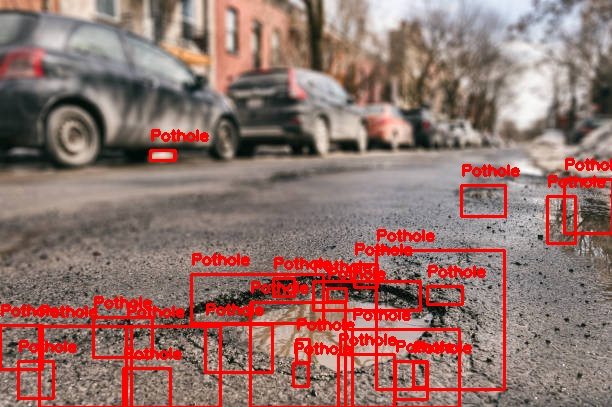
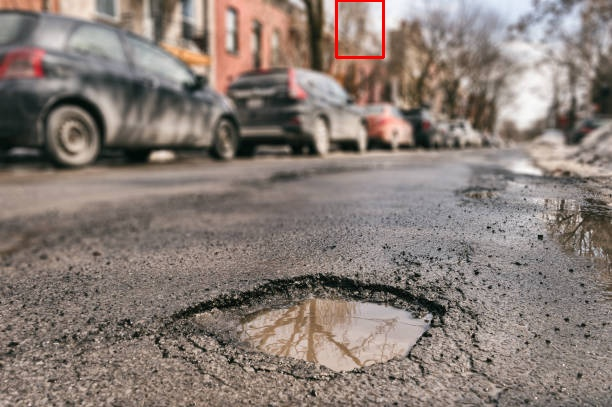
webpage error rectification

diff --git a/app/templates/result.html b/app/templates/result.html
@@ -3,21 +3,43 @@
 <head>
     <title>Results</title>
     <style>
-        body { font-family: Arial; text-align: center; margin-top: 30px; }
-        img { border: 1px solid #ddd; margin: 10px; max-width: 500px; }
-        a { display: inline-block; margin-top: 20px; color: #4CAF50; }
+        body { font-family: Arial; padding: 20px; }
+        .container { display: flex; gap: 20px; }
+        .image-box { flex: 1; border: 1px solid #ddd; padding: 10px; }
+        img { max-width: 100%; height: auto; }
+        .btn { display: inline-block; margin-top: 20px; padding: 10px 20px; 
+               background: #4CAF50; color: white; text-decoration: none; }
+        .count { 
+            background: #f0f0f0;
+            padding: 10px;
+            margin: 10px 0;
+            border-radius: 5px;
+            font-weight: bold;
+        }
+        .error { color: red; }
     </style>
 </head>
 <body>
-    <h1>Detection Results</h1>
-    <div>
-        <h3>Original Image:</h3>
-        <img src="{{ url_for('static', filename=original_img.split('static/')[1]) }}">
+    <h1>Pothole Detection Results</h1>
+    
+    <div class="count">
+        Detected count pothole(s)
     </div>
-    <div>
-        <h3>Processed Image:</h3>
-        <img src="{{ url_for('static', filename=result_img.split('static/')[1]) }}">
+    
+    <div class="container">
+        <div class="image-box">
+            <h3>Original Image</h3>
+            
+                <img src="C:\Users\anike\AI-Pothole-Detector\app\static\uploads\istockphoto-1268318029-612x612.jpg" alt="Original Image">
+                 
+        </div>
+        <div class="image-box">
+            <h3>Processed Image</h3>
+            
+                <img src="C:\Users\anike\AI-Pothole-Detector\app\static\results\istockphoto-1268318029-612x612.jpg" alt="Processed Image">
+                 
+        </div>
     </div>
-    <a href="/">← Upload Another Image</a>
+    <a href="/" class="btn">Try Another Image</a>
 </body>
 </html>

diff --git a/app/templates/upload.html b/app/templates/upload.html
@@ -1,18 +1,34 @@
 <!DOCTYPE html>
 <html>
 <head>
-    <title>Pothole Detector</title>
+    <title>Upload Image</title>
     <style>
-        body { font-family: Arial; text-align: center; margin-top: 50px; }
-        button { padding: 10px 20px; background: #4CAF50; color: white; border: none; cursor: pointer; }
+        body { font-family: Arial; padding: 40px; max-width: 600px; margin: 0 auto; text-align: center; }
+        h1 { color: #333; margin-bottom: 30px; }
+        .upload-box { border: 2px dashed #ccc; padding: 30px; border-radius: 8px; margin: 20px 0; }
+        .btn { display: inline-block; padding: 12px 25px; background: #4CAF50; color: white; 
+               text-decoration: none; border-radius: 4px; font-weight: bold; cursor: pointer; }
+        #fileInput { display: none; }
+        #fileName { margin: 10px 0; font-style: italic; }
     </style>
 </head>
 <body>
-    <h1>Upload Image to Detect Potholes</h1>
-    <form method="post" enctype="multipart/form-data">
-        <input type="file" name="image" accept="image/*" required>
-        <br><br>
-        <button type="submit">Detect Potholes</button>
+    <h1>Upload Image for Pothole Detection</h1>
+    
+    <form method="post" enctype="multipart/form-data" id="uploadForm">
+        <div class="upload-box" onclick="document.getElementById('fileInput').click()">
+            <p>Click to select an image</p>
+            <p id="fileName">No file selected</p>
+            <input type="file" id="fileInput" name="image" accept="image/*" required>
+        </div>
+        <button type="submit" class="btn">Detect Potholes</button>
     </form>
+
+    <script>
+        document.getElementById('fileInput').addEventListener('change', function(e) {
+            const fileName = e.target.files[0] ? e.target.files[0].name : 'No file selected';
+            document.getElementById('fileName').textContent = fileName;
+        });
+    </script>
 </body>
 </html>

diff --git a/app/flask_app.py b/app/flask_app.py
@@ -8,14 +8,12 @@ from flask import send_from_directory
 
 app = Flask(__name__)
 
-# Configuration
 BASE_DIR = Path(__file__).parent
 app.config.update({
     'UPLOAD_FOLDER': BASE_DIR / 'static' / 'uploads',
     'RESULT_FOLDER': BASE_DIR / 'static' / 'results'
 })
 
-# Create directories
 os.makedirs(app.config['UPLOAD_FOLDER'], exist_ok=True)
 os.makedirs(app.config['RESULT_FOLDER'], exist_ok=True)
 
@@ -76,10 +74,10 @@ def home():
             upload_path = app.config['UPLOAD_FOLDER'] / filename
             file.save(str(upload_path))
             
-            # Process image
+        
             result_img, pothole_count = detect_potholes(str(upload_path))
             
-            # Save result
+
             result_path = app.config['RESULT_FOLDER'] / filename
             cv2.imwrite(str(result_path), result_img)
             

diff --git a/detect.py b/detect.py
@@ -1,0 +1,4 @@
+from ultralytics import YOLO
+
+model = YOLO("runs/detect/pothole_training/weights/best.pt")  # Update path
+results = model.predict("test_image.jpg", save=True)
